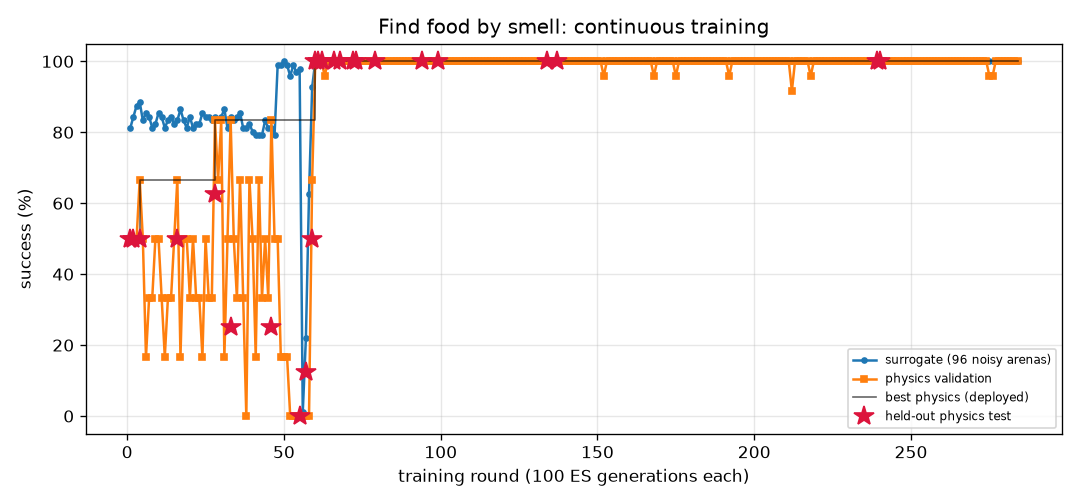
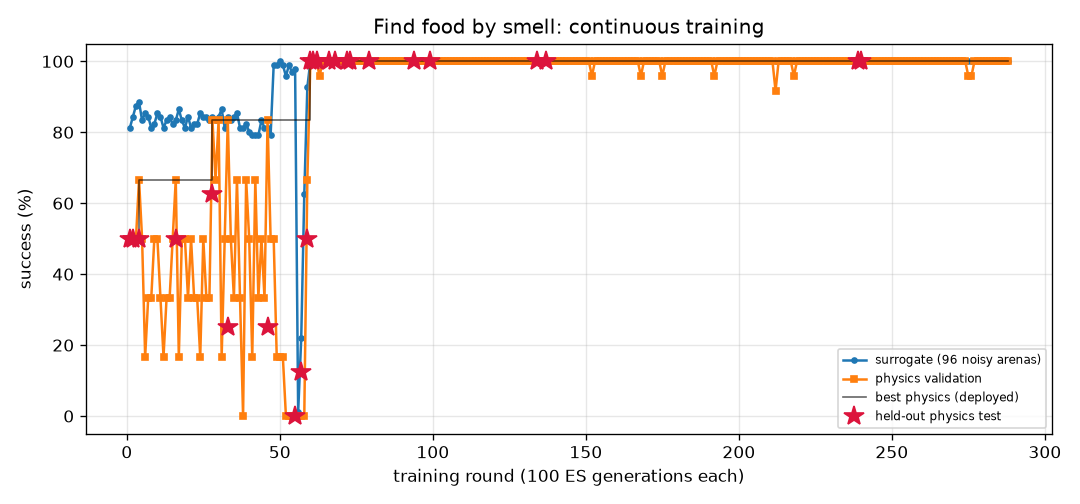
FlyLab: continuous training progress
- walk_forward: optimal, physics val 100% of 24, round 462
- turn: optimal, physics val 100% of 24, round 1212
- goto: optimal, physics val 100% of 24, round 357
- odor_seek: optimal, physics val 100% of 24, round 288
- odor_avoid: optimal, physics val 100% of 24, round 1037
- light_seek: optimal, physics val 100% of 24, round 558
- light_avoid: optimal, physics val 100% of 24, round 753

diff --git a/projects/09_flylab/training/walk_forward/REPORT.md b/projects/09_flylab/training/walk_forward/REPORT.md
@@ -1,14 +1,14 @@
 # Walk forward (`walk_forward`) — training report
 
-*Auto-generated by `train_brains.py`, last updated 2026-11-20T16:55:22.*
+*Auto-generated by `train_brains.py`, last updated 2026-11-20T21:19:21.*
 
 ![curve](curve.png)
 
 | | |
 |---|---|
-| rounds | 456 |
-| ES generations | 45600 |
-| physics runs | 10990 |
+| rounds | 462 |
+| ES generations | 46200 |
+| physics runs | 11134 |
 | status | **optimal** |
 | best brain | round 437: physics validation **100%** on 24 arenas, surrogate 99% |
 | held-out physics test | **100%** on 32 unseen arenas (95% CI 89%-100%) (errors: [0.13, 0.13, 0.18, 0.2, 0.13, 0.13, 0.13, 0.2, 0.2, 0.19, 0.18, 0.13, 0.21, 0.19, 0.13, 0.15, 0.13, 0.13, 0.13, 0.16, 0.17, 0.2, 0.13, 0.12, 0.13, 0.13, 0.2, 0.13, 0.13, 0.13, 0.19, 0.13]) |
@@ -17,12 +17,6 @@ Physics error per arena: mm from target at the end (< 1.5 and standing still = s
 
 | round | level | gens | sigma | surrogate | physics val | val errors | test | note |
 |---:|---:|---:|---:|---:|---:|---|---:|---|
-| 417 | 3 | 41700 | 0.024 | 100% | 100% | [0.22, 0.22, 0.16, 0.22, 0.22, 0.15, 0.22, 0.19, 0.22, 0.18, 0.06, 0.08, 0.19, 0.15, 0.22, 0.07, 0.21, 0.23, 0.19, 0.23, 0.21, 0.18, 0.13, 0.19] |  |  |
-| 418 | 3 | 41800 | 0.024 | 100% | 100% | [0.26, 0.29, 0.2, 0.26, 0.29, 0.2, 0.28, 0.23, 0.29, 0.28, 0.19, 0.26, 0.23, 0.2, 0.27, 0.27, 0.26, 0.28, 0.22, 0.28, 0.24, 0.28, 0.26, 0.23] |  |  |
-| 419 | 3 | 41900 | 0.024 | 100% | 100% | [0.22, 0.27, 0.16, 0.22, 0.26, 0.16, 0.26, 0.19, 0.27, 0.26, 0.16, 0.25, 0.18, 0.17, 0.24, 0.25, 0.21, 0.25, 0.19, 0.25, 0.2, 0.25, 0.25, 0.18] |  |  |
-| 420 | 3 | 42000 | 0.024 | 100% | 100% | [0.24, 0.29, 0.24, 0.24, 0.29, 0.23, 0.3, 0.23, 0.29, 0.32, 0.23, 0.33, 0.22, 0.22, 0.25, 0.32, 0.23, 0.28, 0.22, 0.26, 0.23, 0.32, 0.33, 0.22] |  | restart from best |
-| 421 | 3 | 42100 | 0.024 | 100% | 100% | [0.19, 0.17, 0.18, 0.18, 0.18, 0.17, 0.17, 0.18, 0.17, 0.15, 0.17, 0.13, 0.18, 0.18, 0.18, 0.19, 0.18, 0.18, 0.18, 0.18, 0.18, 0.19, 0.19, 0.18] |  |  |
-| 422 | 3 | 42200 | 0.024 | 100% | 100% | [0.26, 0.23, 0.27, 0.26, 0.16, 0.26, 0.15, 0.26, 0.23, 0.13, 0.25, 0.13, 0.26, 0.26, 0.13, 0.11, 0.28, 0.24, 0.26, 0.24, 0.27, 0.09, 0.1, 0.26] |  |  |
 | 423 | 3 | 42300 | 0.024 | 99% | 100% | [0.29, 0.29, 0.23, 0.29, 0.29, 0.22, 0.28, 0.26, 0.29, 0.27, 0.22, 0.25, 0.25, 0.22, 0.3, 0.26, 0.29, 0.3, 0.26, 0.3, 0.27, 0.27, 0.25, 0.25] |  |  |
 | 424 | 3 | 42400 | 0.025 | 100% | 100% | [0.46, 0.41, 0.42, 0.46, 0.41, 0.4, 0.4, 0.45, 0.41, 0.39, 0.38, 0.37, 0.44, 0.4, 0.45, 0.38, 0.46, 0.42, 0.45, 0.44, 0.45, 0.38, 0.38, 0.45] |  | restart from best |
 | 425 | 3 | 42500 | 0.024 | 99% | 100% | [0.29, 0.28, 0.27, 0.29, 0.27, 0.26, 0.25, 0.29, 0.26, 0.21, 0.25, 0.24, 0.29, 0.27, 0.29, 0.24, 0.29, 0.27, 0.28, 0.29, 0.29, 0.25, 0.23, 0.28] |  |  |
@@ -57,3 +51,9 @@ Physics error per arena: mm from target at the end (< 1.5 and standing still = s
 | 454 | 3 | 45400 | 0.025 | 100% | 100% | [0.21, 0.25, 0.18, 0.2, 0.26, 0.18, 0.26, 0.17, 0.26, 0.25, 0.2, 0.24, 0.17, 0.18, 0.22, 0.25, 0.19, 0.25, 0.18, 0.23, 0.18, 0.25, 0.23, 0.17] |  |  |
 | 455 | 3 | 45500 | 0.024 | 100% | 100% | [0.36, 0.43, 0.31, 0.35, 0.43, 0.32, 0.43, 0.31, 0.43, 0.43, 0.33, 0.4, 0.31, 0.32, 0.38, 0.41, 0.34, 0.43, 0.32, 0.4, 0.32, 0.42, 0.4, 0.31] |  |  |
 | 456 | 3 | 45600 | 0.024 | 100% | 100% | [0.3, 0.33, 0.2, 0.29, 0.33, 0.2, 0.32, 0.22, 0.32, 0.28, 0.21, 0.26, 0.21, 0.2, 0.31, 0.27, 0.28, 0.33, 0.23, 0.32, 0.25, 0.28, 0.26, 0.21] |  |  |
+| 457 | 3 | 45700 | 0.024 | 100% | 100% | [0.43, 0.41, 0.32, 0.42, 0.41, 0.31, 0.41, 0.36, 0.41, 0.37, 0.31, 0.34, 0.35, 0.32, 0.43, 0.35, 0.42, 0.41, 0.36, 0.43, 0.38, 0.36, 0.33, 0.35] |  | restart from best |
+| 458 | 3 | 45800 | 0.025 | 100% | 96% | [0.08, 0.17, 0.04, 0.07, 0.18, 0.03, 0.23, 0.06, 0.18, 0.19, 0.33, 0.21, 0.07, 0.03, 0.08, 0.22, 0.05, 0.15, 0.22, 0.03, 0.12, 0.21, 0.24, 0.05] |  |  |
+| 459 | 3 | 45900 | 0.024 | 100% | 100% | [0.23, 0.3, 0.22, 0.23, 0.3, 0.23, 0.3, 0.22, 0.3, 0.32, 0.23, 0.33, 0.22, 0.22, 0.25, 0.33, 0.23, 0.28, 0.22, 0.26, 0.22, 0.33, 0.32, 0.22] |  |  |
+| 460 | 3 | 46000 | 0.024 | 100% | 83% | [0.09, 0.12, 0.08, 0.09, 0.12, 0.03, 0.12, 0.91, 0.13, 0.13, 0.02, 0.13, 0.2, 0.97, 0.1, 0.14, 0.09, 0.12, 0.58, 0.11, 0.07, 0.13, 0.13, 0.73] |  |  |
+| 461 | 3 | 46100 | 0.024 | 100% | 100% | [0.1, 0.13, 0.09, 0.1, 0.13, 0.09, 0.13, 0.1, 0.13, 0.15, 0.09, 0.16, 0.1, 0.09, 0.11, 0.15, 0.1, 0.13, 0.1, 0.12, 0.1, 0.15, 0.16, 0.1] |  | restart from best |
+| 462 | 3 | 46200 | 0.025 | 99% | 83% | [0.08, 0.07, 0.07, 0.03, 0.07, 0.37, 0.13, 0.08, 0.06, 0.09, 0.43, 0.14, 0.07, 0.38, 0.04, 0.15, 0.03, 0.16, 0.06, 0.07, 0.12, 0.08, 0.12, 0.09] |  |  |

diff --git a/projects/09_flylab/training/odor_seek/REPORT.md b/projects/09_flylab/training/odor_seek/REPORT.md
@@ -1,14 +1,14 @@
 # Find food by smell (`odor_seek`) — training report
 
-*Auto-generated by `train_brains.py`, last updated 2026-11-20T18:04:53.*
+*Auto-generated by `train_brains.py`, last updated 2026-11-20T21:24:37.*
 
 ![curve](curve.png)
 
 | | |
 |---|---|
-| rounds | 284 |
-| ES generations | 28400 |
-| physics runs | 6310 |
+| rounds | 288 |
+| ES generations | 28800 |
+| physics runs | 6406 |
 | status | **optimal** |
 | best brain | round 240: physics validation **100%** on 24 arenas, surrogate 100% |
 | held-out physics test | **100%** on 32 unseen arenas (95% CI 89%-100%) (errors: [0.02, 0.03, 0.03, 0.05, 0.04, 0.05, 0.06, 0.07, 0.09, 0.05, 0.05, 0.01, 0.12, 0.03, 0.07, 0.08, 0.02, 0.06, 0.03, 0.04, 0.0, 0.01, 0.09, 0.05, 0.04, 0.01, 0.07, 0.05, 0.08, 0.05, 0.05, 0.02]) |
@@ -17,10 +17,6 @@ Physics error per arena: mm from target at the end (< 1.5 and standing still = s
 
 | round | level | gens | sigma | surrogate | physics val | val errors | test | note |
 |---:|---:|---:|---:|---:|---:|---|---:|---|
-| 245 | 3 | 24500 | 0.024 | 100% | 100% | [0.14, 0.13, 0.12, 0.14, 0.04, 0.14, 0.1, 0.08, 0.06, 0.12, 0.08, 0.04, 0.04, 0.04, 0.05, 0.12, 0.1, 0.06, 0.06, 0.04, 0.04, 0.08, 0.13, 0.08] |  |  |
-| 246 | 3 | 24600 | 0.024 | 100% | 100% | [0.14, 0.06, 0.22, 0.17, 0.1, 0.2, 0.22, 0.1, 0.14, 0.19, 0.1, 0.11, 0.14, 0.15, 0.13, 0.09, 0.15, 0.23, 0.18, 0.22, 0.22, 0.13, 0.08, 0.13] |  |  |
-| 247 | 3 | 24700 | 0.024 | 100% | 100% | [0.03, 0.12, 0.14, 0.05, 0.04, 0.13, 0.01, 0.05, 0.08, 0.07, 0.16, 0.08, 0.04, 0.02, 0.08, 0.12, 0.13, 0.13, 0.13, 0.09, 0.06, 0.1, 0.11, 0.07] |  |  |
-| 248 | 3 | 24800 | 0.024 | 100% | 100% | [0.16, 0.16, 0.14, 0.1, 0.22, 0.21, 0.12, 0.12, 0.05, 0.15, 0.18, 0.05, 0.18, 0.16, 0.14, 0.14, 0.08, 0.14, 0.14, 0.12, 0.14, 0.15, 0.14, 0.09] |  | restart from best |
 | 249 | 3 | 24900 | 0.024 | 100% | 100% | [0.09, 0.17, 0.08, 0.12, 0.14, 0.18, 0.11, 0.09, 0.12, 0.13, 0.11, 0.14, 0.13, 0.08, 0.13, 0.17, 0.17, 0.07, 0.05, 0.07, 0.13, 0.15, 0.18, 0.13] |  |  |
 | 250 | 3 | 25000 | 0.024 | 100% | 100% | [0.15, 0.2, 0.17, 0.07, 0.2, 0.19, 0.15, 0.22, 0.17, 0.17, 0.21, 0.19, 0.21, 0.22, 0.19, 0.18, 0.29, 0.22, 0.23, 0.17, 0.17, 0.26, 0.2, 0.13] |  |  |
 | 251 | 3 | 25100 | 0.024 | 100% | 100% | [0.28, 0.09, 0.24, 0.26, 0.13, 0.11, 0.15, 0.17, 0.21, 0.15, 0.17, 0.19, 0.19, 0.09, 0.19, 0.22, 0.24, 0.14, 0.07, 0.14, 0.17, 0.17, 0.16, 0.2] |  |  |
@@ -57,3 +53,7 @@ Physics error per arena: mm from target at the end (< 1.5 and standing still = s
 | 282 | 3 | 28200 | 0.024 | 100% | 100% | [0.24, 0.19, 0.2, 0.11, 0.18, 0.21, 0.23, 0.15, 0.12, 0.11, 0.21, 0.23, 0.2, 0.19, 0.29, 0.19, 0.17, 0.23, 0.13, 0.18, 0.12, 0.11, 0.19, 0.23] |  |  |
 | 283 | 3 | 28300 | 0.024 | 100% | 100% | [0.22, 0.18, 0.16, 0.12, 0.18, 0.22, 0.15, 0.16, 0.16, 0.19, 0.22, 0.13, 0.16, 0.2, 0.16, 0.13, 0.15, 0.16, 0.14, 0.15, 0.2, 0.17, 0.21, 0.18] |  |  |
 | 284 | 3 | 28400 | 0.024 | 100% | 100% | [0.09, 0.15, 0.15, 0.15, 0.11, 0.2, 0.22, 0.11, 0.06, 0.22, 0.04, 0.07, 0.2, 0.13, 0.09, 0.11, 0.07, 0.18, 0.13, 0.12, 0.06, 0.13, 0.15, 0.13] |  | restart from best |
+| 285 | 3 | 28500 | 0.024 | 100% | 100% | [0.15, 0.15, 0.17, 0.19, 0.15, 0.13, 0.14, 0.18, 0.17, 0.14, 0.14, 0.14, 0.1, 0.12, 0.13, 0.13, 0.19, 0.17, 0.13, 0.16, 0.12, 0.07, 0.18, 0.15] |  |  |
+| 286 | 3 | 28600 | 0.024 | 100% | 100% | [0.15, 0.15, 0.15, 0.15, 0.16, 0.17, 0.21, 0.17, 0.12, 0.19, 0.07, 0.13, 0.21, 0.11, 0.14, 0.19, 0.14, 0.12, 0.11, 0.15, 0.2, 0.21, 0.21, 0.11] |  |  |
+| 287 | 3 | 28700 | 0.024 | 100% | 100% | [0.18, 0.25, 0.18, 0.2, 0.24, 0.22, 0.18, 0.21, 0.19, 0.24, 0.22, 0.18, 0.18, 0.19, 0.2, 0.27, 0.22, 0.22, 0.23, 0.22, 0.19, 0.16, 0.25, 0.24] |  |  |
+| 288 | 3 | 28800 | 0.024 | 100% | 100% | [0.19, 0.17, 0.17, 0.2, 0.17, 0.22, 0.17, 0.17, 0.15, 0.2, 0.17, 0.22, 0.17, 0.17, 0.21, 0.19, 0.15, 0.19, 0.19, 0.23, 0.16, 0.18, 0.22, 0.14] |  | restart from best |

diff --git a/projects/09_flylab/training/turn/REPORT.md b/projects/09_flylab/training/turn/REPORT.md
@@ -1,14 +1,14 @@
 # Turn in place (`turn`) — training report
 
-*Auto-generated by `train_brains.py`, last updated 2026-11-20T17:58:44.*
+*Auto-generated by `train_brains.py`, last updated 2026-11-20T21:25:56.*
 
 ![curve](curve.png)
 
 | | |
 |---|---|
-| rounds | 1211 |
-| ES generations | 121100 |
-| physics runs | 29310 |
+| rounds | 1212 |
+| ES generations | 121200 |
+| physics runs | 29334 |
 | status | **optimal** |
 | best brain | round 80: physics validation **100%** on 24 arenas, surrogate 100% |
 | held-out physics test | **97%** on 32 unseen arenas (95% CI 84%-99%) (errors: [1.6, 3.3, 6.3, 3.7, 1.1, 0.4, 2.4, 2.9, 0.1, 2.6, 0.5, 2.7, 1.5, 3.1, 4.5, 0.2, 0.5, 1.1, 2.0, 4.4, 2.8, 3.2, 0.3, 2.2, 0.5, 3.0, 0.3, 5.4, 0.4, 1.0, 4.7, 10.7]) |
@@ -17,7 +17,6 @@ Physics error per arena: deg from target heading (< 20 = success).
 
 | round | level | gens | sigma | surrogate | physics val | val errors | test | note |
 |---:|---:|---:|---:|---:|---:|---|---:|---|
-| 1172 | 3 | 117200 | 0.025 | 100% | 96% | [8.0, 10.9, 7.4, 4.8, 3.8, 6.4, 0.9, 6.5, 1.0, 6.3, 0.3, 5.4, 4.5, 7.1, 0.9, 6.9, 5.1, 4.7, 6.8, 4.5, 8.8, 1.6, 0.2, 4.6] |  | restart from best |
 | 1173 | 3 | 117300 | 0.024 | 100% | 79% | [0.5, 3.5, 1.8, 0.0, 1.1, 2.3, 7.6, 6.0, 7.3, 15.0, 6.4, 1.5, 1.2, 1.4, 4.9, 1.7, 2.5, 3.6, 2.1, 2.4, 4.8, 2.1, 7.5, 7.1] |  |  |
 | 1174 | 3 | 117400 | 0.024 | 100% | 92% | [0.9, 4.1, 0.7, 0.3, 12.5, 0.7, 6.8, 6.0, 9.9, 1.6, 5.8, 2.7, 0.8, 0.6, 3.8, 4.7, 3.5, 2.8, 3.8, 4.7, 2.5, 3.0, 3.4, 6.1] |  |  |
 | 1175 | 3 | 117500 | 0.024 | 100% | 83% | [2.5, 5.8, 9.2, 0.6, 1.1, 116.3, 6.8, 9.5, 10.3, 2.2, 5.0, 0.0, 2.0, 0.1, 3.8, 4.1, 0.1, 4.0, 4.1, 4.4, 0.9, 2.7, 8.2, 8.2] |  |  |
@@ -57,3 +56,4 @@ Physics error per arena: deg from target heading (< 20 = success).
 | 1209 | 3 | 120900 | 0.024 | 100% | 88% | [6.5, 8.9, 2.2, 1.8, 3.2, 5.3, 2.4, 2.7, 2.2, 1.4, 3.3, 2.6, 2.5, 2.5, 1.8, 2.1, 2.4, 0.7, 1.5, 2.1, 6.1, 3.5, 4.3, 2.2] |  |  |
 | 1210 | 3 | 121000 | 0.024 | 100% | 83% | [5.9, 3.7, 1.5, 2.0, 2.0, 2.5, 5.1, 3.3, 4.8, 14.0, 5.1, 3.9, 1.2, 1.4, 5.1, 0.2, 3.7, 1.5, 1.0, 2.0, 4.9, 0.0, 4.4, 13.5] |  |  |
 | 1211 | 3 | 121100 | 0.024 | 100% | 92% | [4.8, 9.1, 7.5, 1.3, 1.0, 2.1, 2.9, 2.7, 5.0, 2.2, 3.2, 1.5, 3.6, 0.1, 3.2, 1.1, 1.7, 0.8, 1.9, 2.0, 4.8, 2.8, 2.1, 3.7] |  |  |
+| 1212 | 3 | 121200 | 0.024 | 100% | 79% | [2.9, 5.5, 0.4, 4.2, 11.3, 3.4, 4.1, 7.2, 6.1, 13.2, 4.9, 0.5, 1.6, 2.3, 3.5, 0.1, 0.3, 2.1, 0.4, 0.4, 4.1, 0.7, 3.8, 5.6] |  | restart from best |

diff --git a/projects/09_flylab/training/TRAINING.md b/projects/09_flylab/training/TRAINING.md
@@ -1,15 +1,15 @@
 # FlyLab brains — continuous training log
 
-*Auto-generated by `train_brains.py`, last updated 2026-11-20T20:18:16.*
+*Auto-generated by `train_brains.py`, last updated 2026-11-20T21:25:56.*
 
 Every skill has its own brain and its own training process: surrogate ES rounds, physics validation in MuJoCo, keep-the-best selection, and a held-out physics test that is never used for selection. See each skill's report for its full round-by-round history. Mastery is progressive: passing a level (100% physics validation, >=95% surrogate) doubles the validation and test arena sets; a brain is **optimal** once it holds up at level 3 (>=95% of 24 validation arenas) AND scores >=90% on the 32 held-out test arenas. Test columns show 95% Wilson confidence intervals.
 
 | skill | rounds | ES generations | physics runs | surrogate | physics val | **physics test** | status |
 |---|---:|---:|---:|---:|---:|---:|---|
-| [Walk forward](walk_forward/REPORT.md) | 456 | 45600 | 10990 | 99% | 100% of 24 | 100% of 32 (CI 89-100%) | **optimal** |
-| [Turn in place](turn/REPORT.md) | 1211 | 121100 | 29310 | 100% | 100% of 24 | 97% of 32 (CI 84-99%) | **optimal** |
+| [Walk forward](walk_forward/REPORT.md) | 462 | 46200 | 11134 | 99% | 100% of 24 | 100% of 32 (CI 89-100%) | **optimal** |
+| [Turn in place](turn/REPORT.md) | 1212 | 121200 | 29334 | 100% | 100% of 24 | 97% of 32 (CI 84-99%) | **optimal** |
 | [Go to a location](goto/REPORT.md) | 357 | 35700 | 8518 | 100% | 100% of 24 | 100% of 32 (CI 89-100%) | **optimal** |
-| [Find food by smell](odor_seek/REPORT.md) | 284 | 28400 | 6310 | 100% | 100% of 24 | 100% of 32 (CI 89-100%) | **optimal** |
+| [Find food by smell](odor_seek/REPORT.md) | 288 | 28800 | 6406 | 100% | 100% of 24 | 100% of 32 (CI 89-100%) | **optimal** |
 | [Escape a bad smell](odor_avoid/REPORT.md) | 1037 | 103700 | 22194 | 97% | 100% of 24 | 97% of 32 (CI 84-99%) | **optimal** |
 | [Walk toward light](light_seek/REPORT.md) | 558 | 55800 | 10272 | 100% | 100% of 24 | 100% of 32 (CI 89-100%) | **optimal** |
 | [Hide from light](light_avoid/REPORT.md) | 753 | 75300 | 18344 | 100% | 100% of 24 | 100% of 32 (CI 89-100%) | **optimal** |
